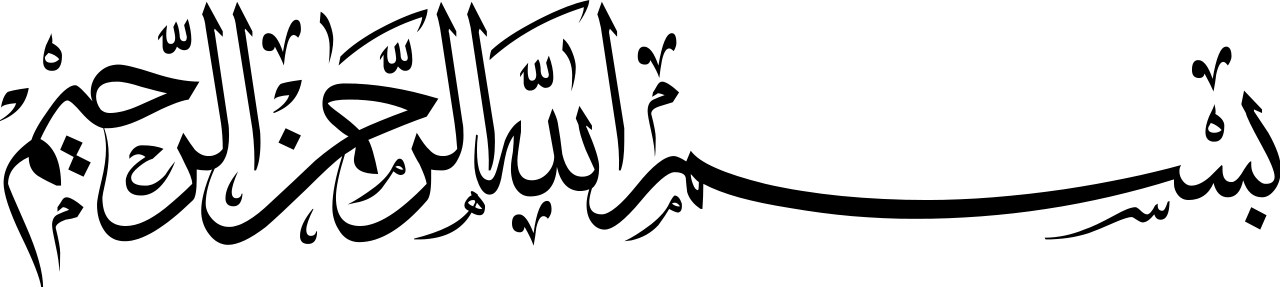
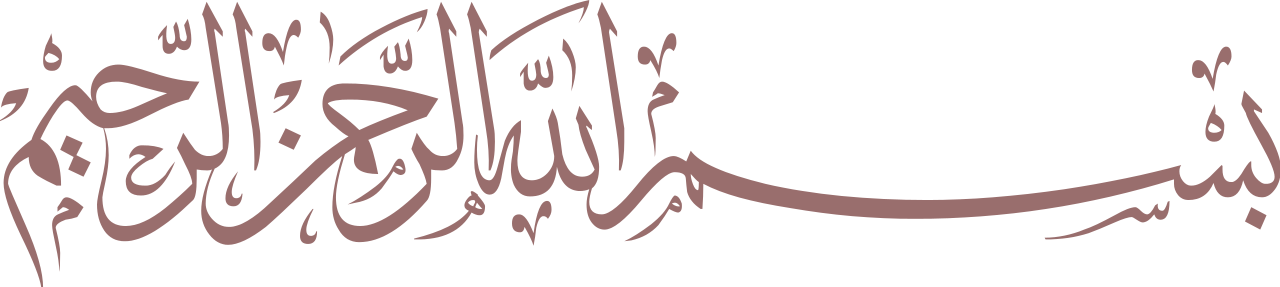
add basmalah

diff --git a/css/menikah.css b/css/menikah.css
@@ -292,6 +292,7 @@ color: #996E6D;
   font-size: 5rem;
   font-family: 'Lato', sans-serif;
   font-weight: 900;
+  line-height: 1;
 }
 
 .tempat {
@@ -346,12 +347,18 @@ color: #996E6D;
 }
 
 .divider {
-  margin: 25px;
+  margin: 40px 25px;
   display: inline-block;
   max-height: 40px;
   vertical-align: middle;
 }
 
+.bismillah {
+  margin: 25px;
+  display: inline-block;
+  max-height: 50px;
+  vertical-align: middle;
+}
 
 #toTop {
   height: 50px;

diff --git a/index.html b/index.html
@@ -173,7 +173,7 @@
       <div class="section-light no-padding-top regular-section has-text-centered has-vertically-aligned-content" id="regular-section">
         
         <div>
-          <img src="image/divider1-darkest.png" class="divider has-text-centered">
+          <img src="image/bismillah.png" class="bismillah has-text-centered">
         </div>
 
         <p class="bodytext">
